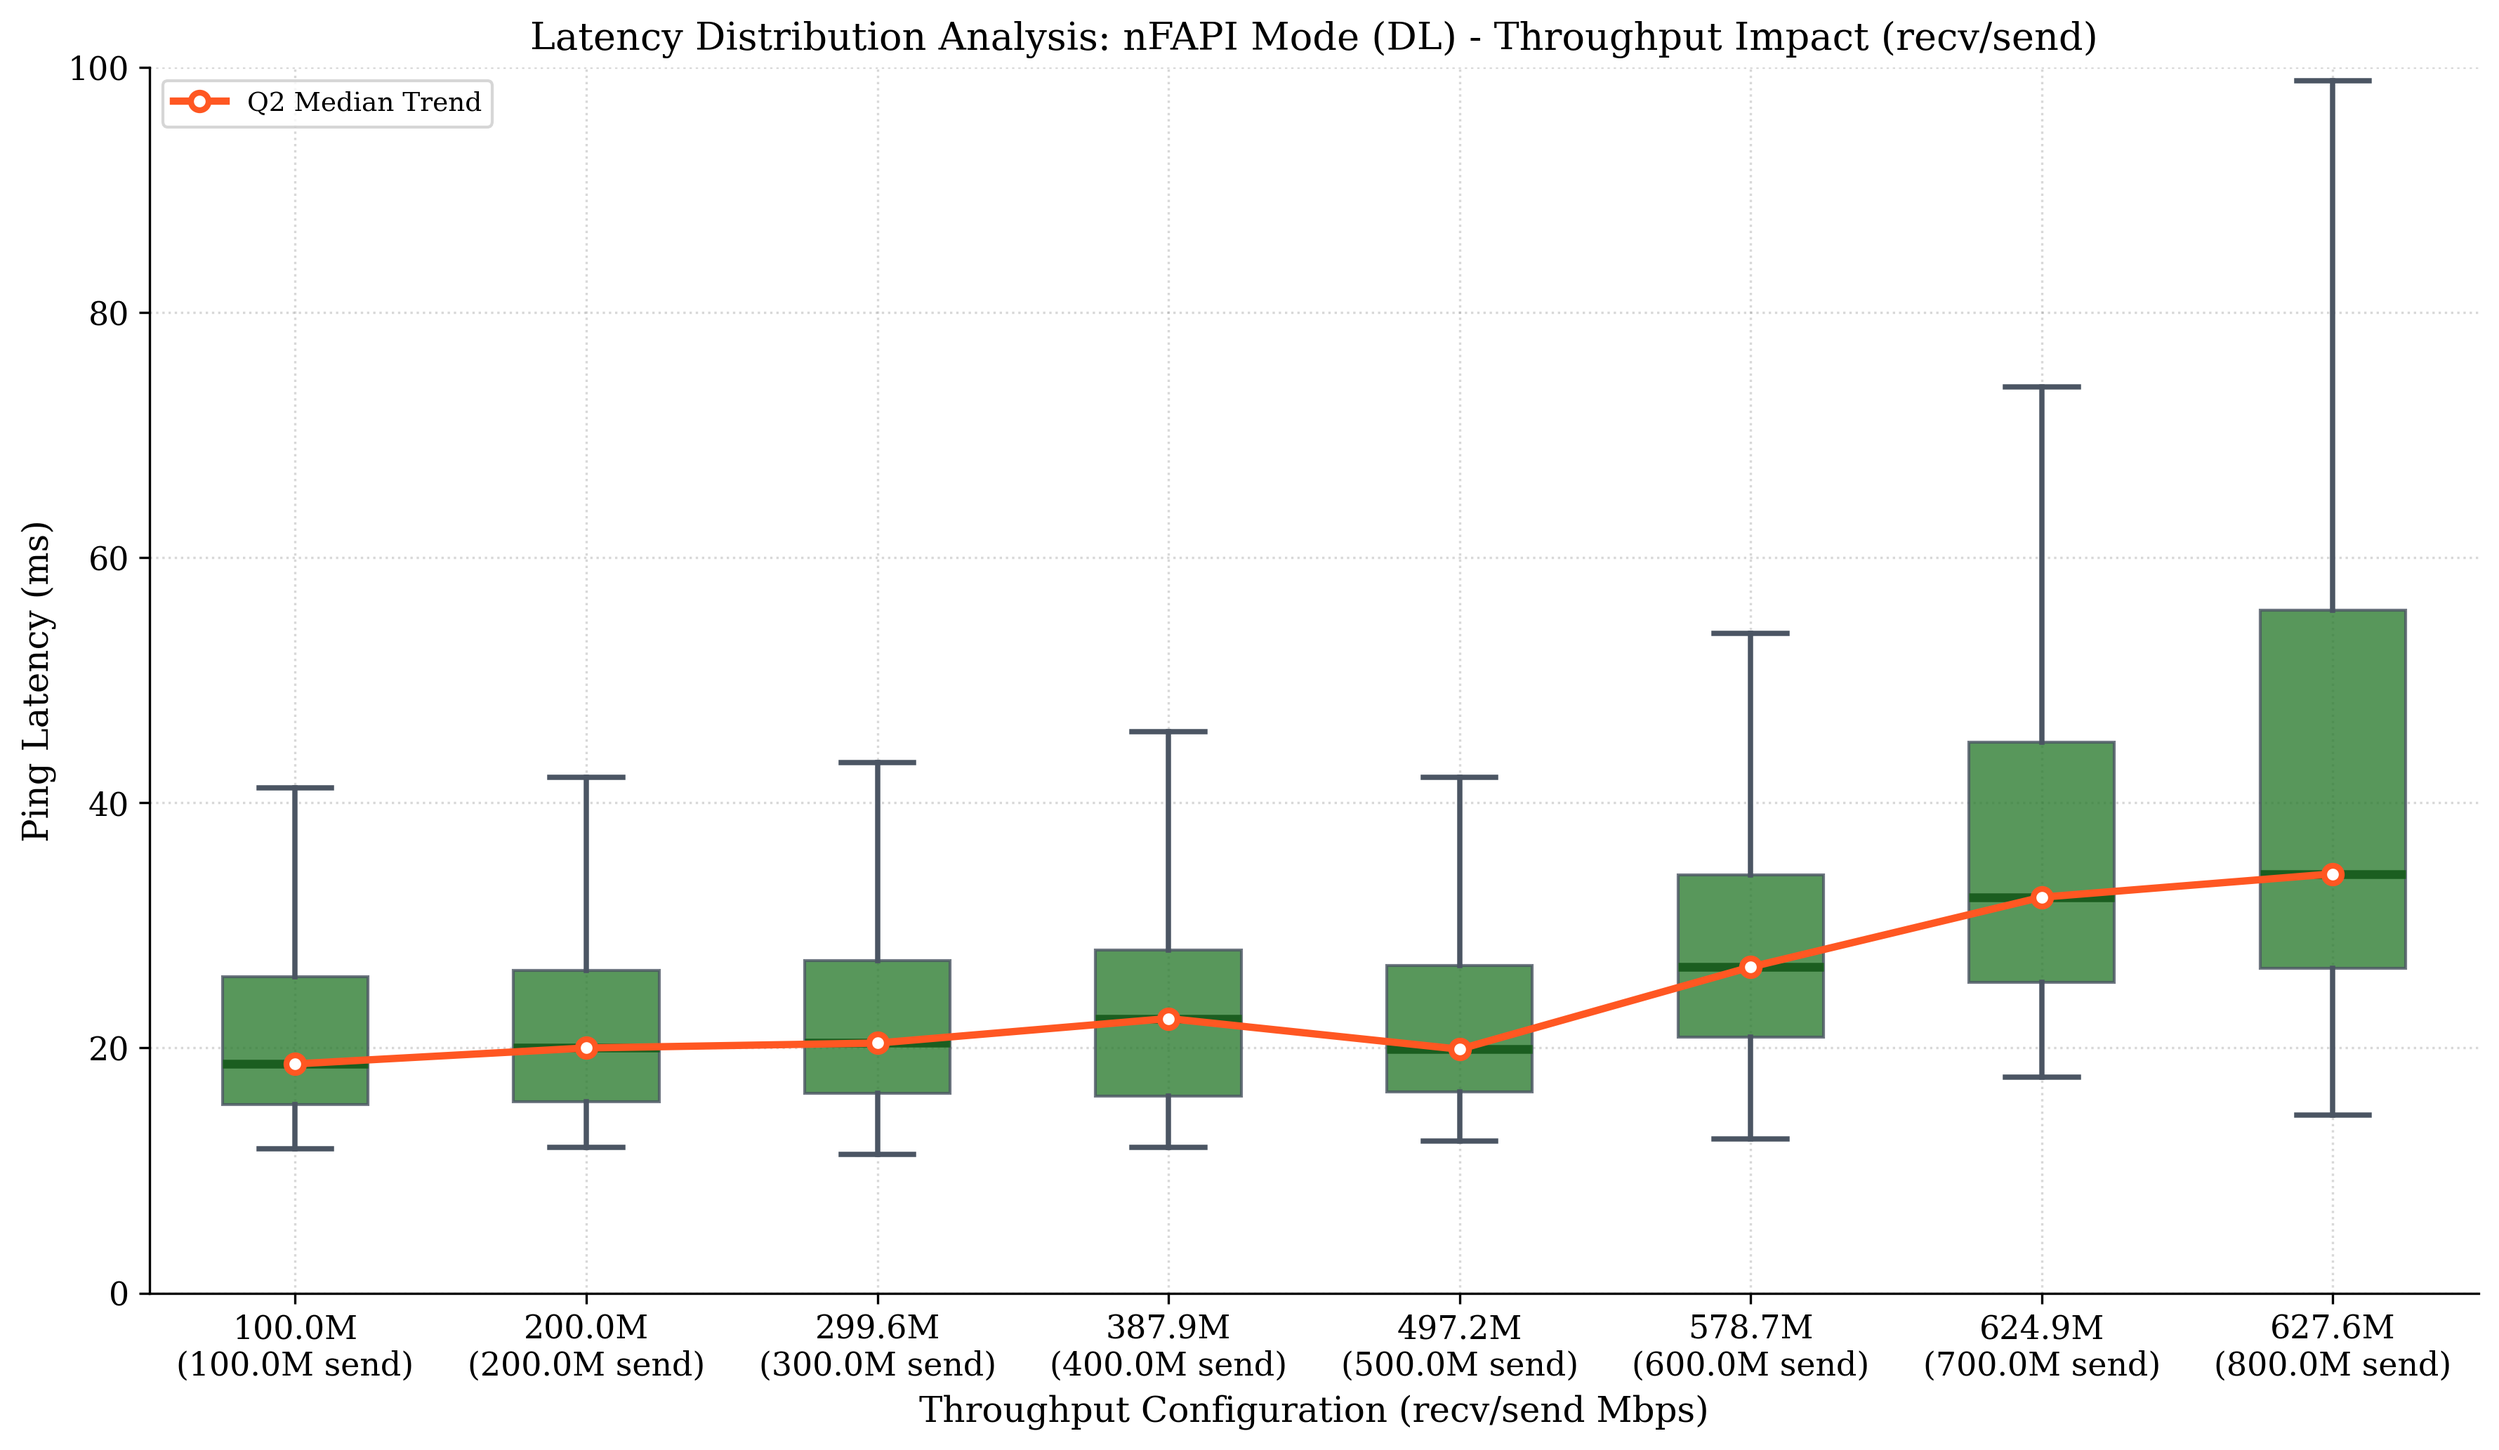
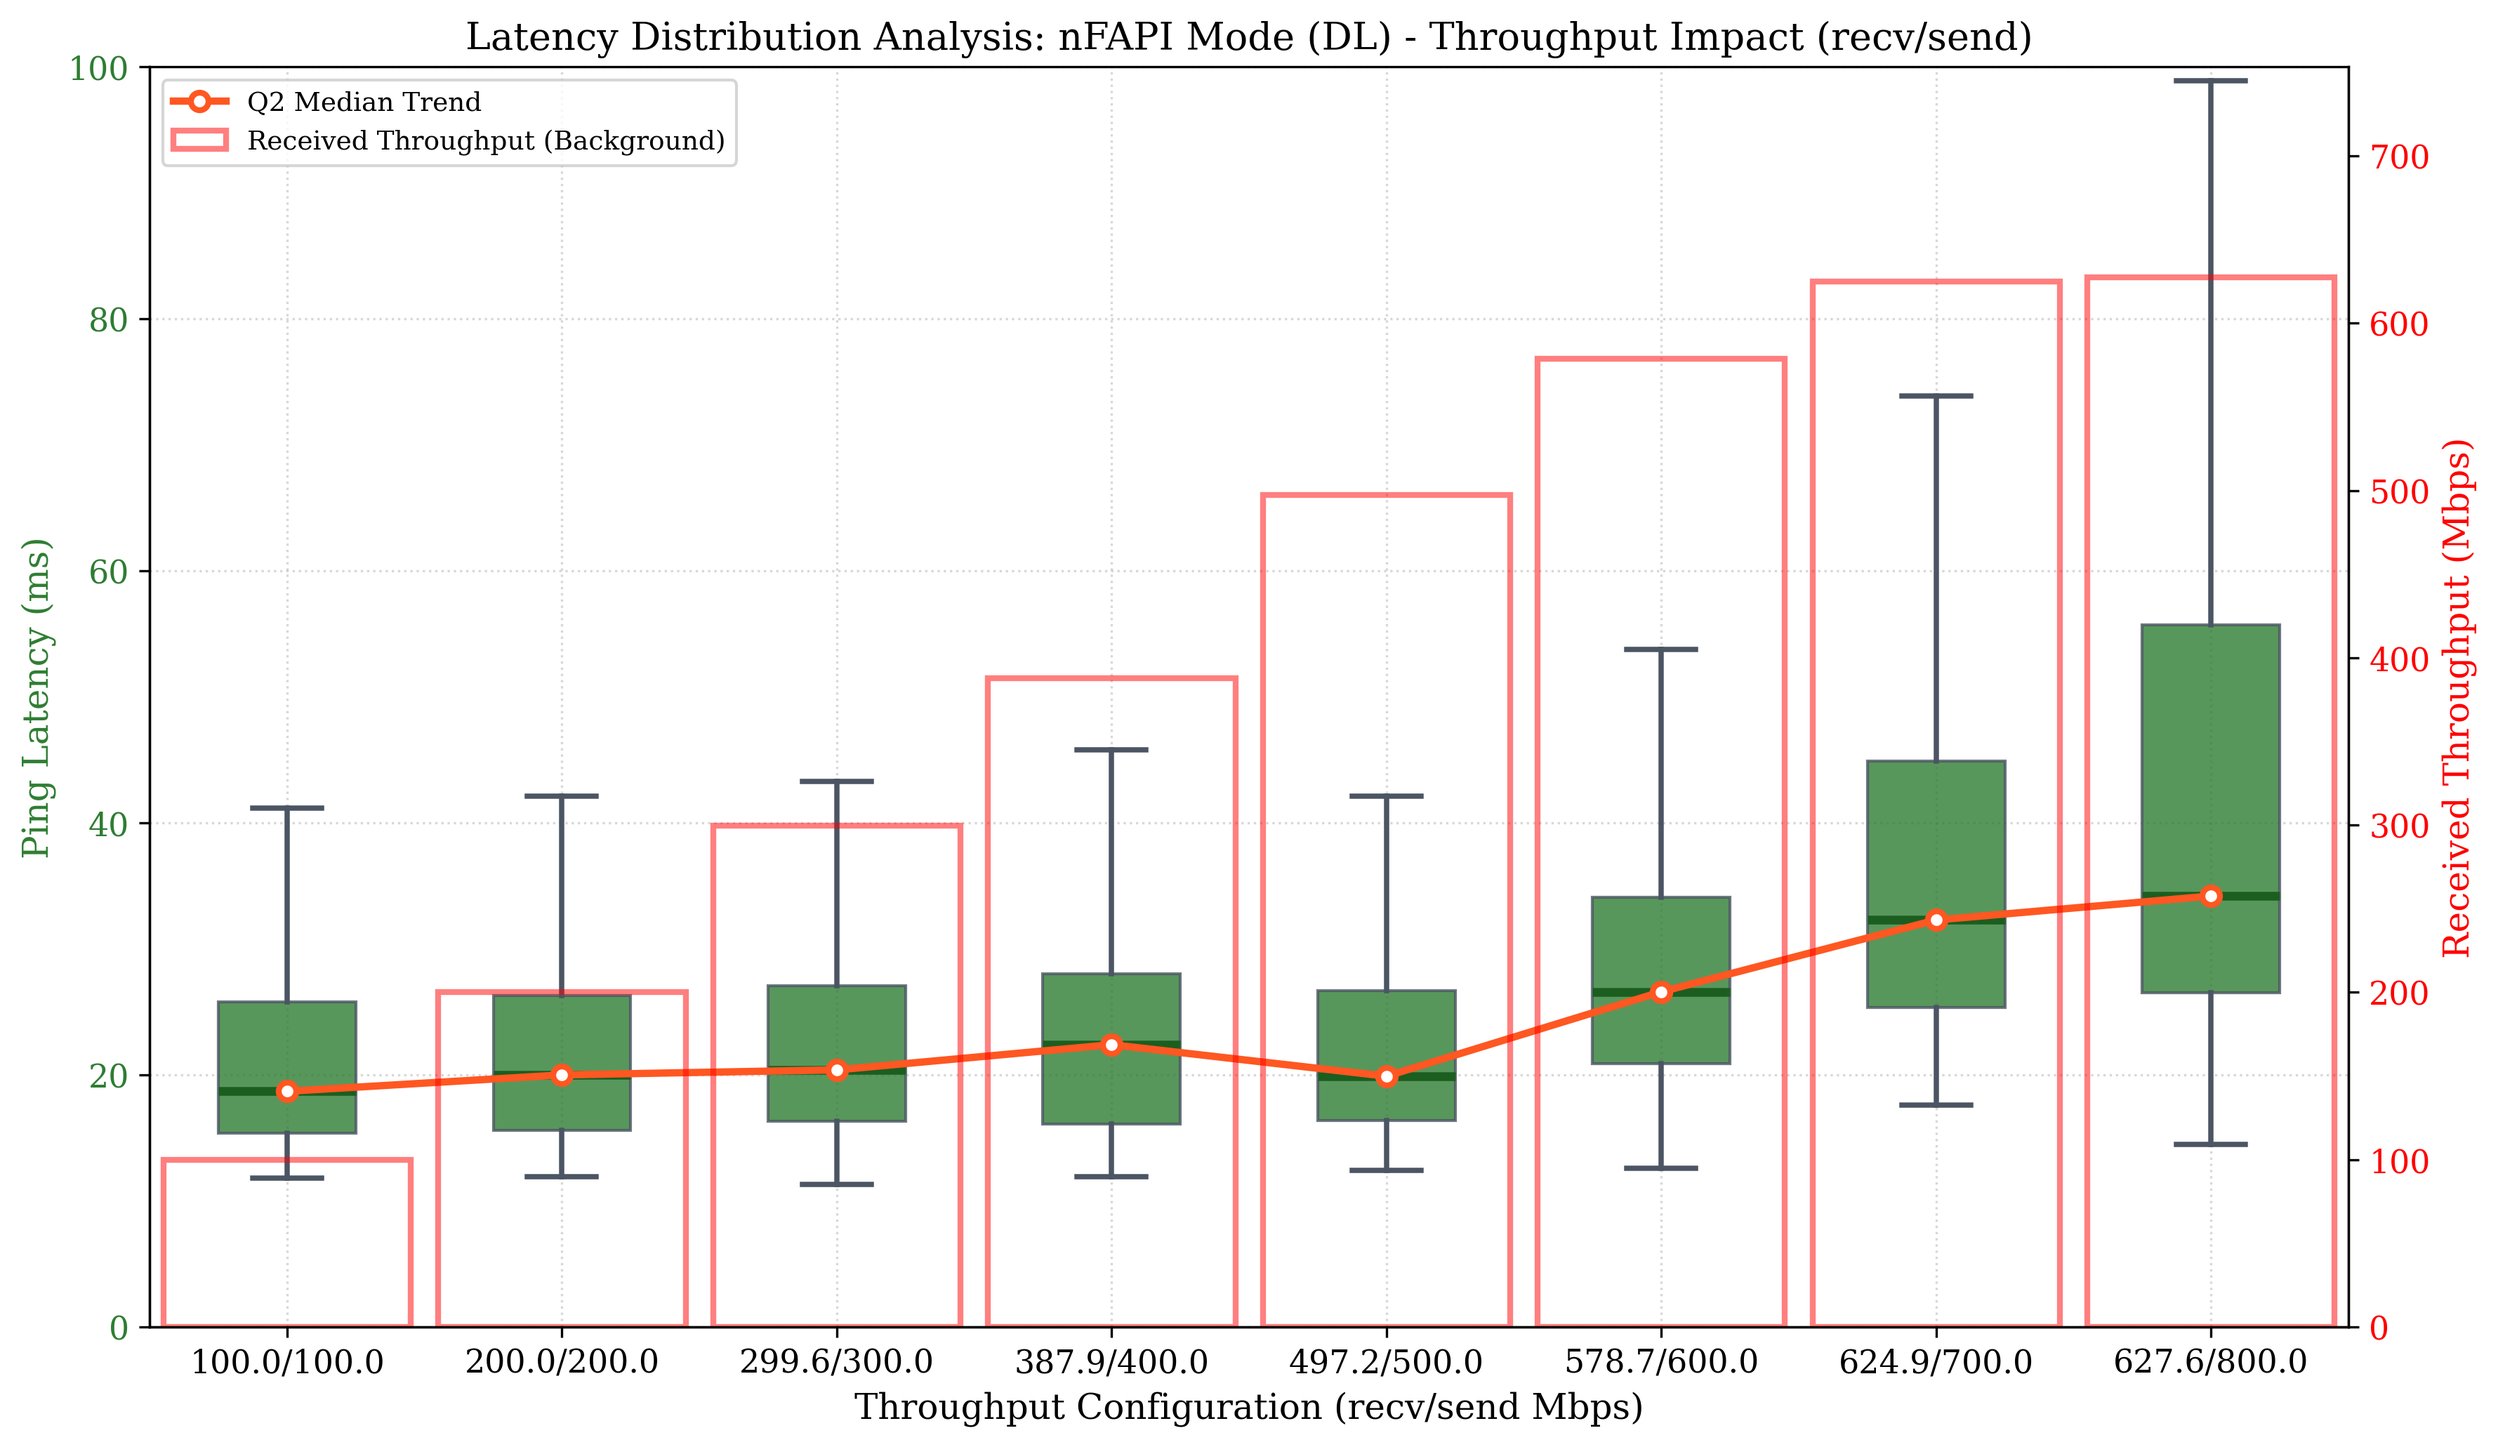
Enhance ping latency analysis visualization by adding background throughput bars and improving label formatting; update plot aesthetics for better clarity

diff --git a/scripts/analyze_ping_latency.py b/scripts/analyze_ping_latency.py
@@ -195,15 +195,18 @@ def create_quartile_analysis_plot(results_dict, output_dir, direction, mode, dat
     
     # Create enhanced labels with throughput information
     labels = []
+    recv_values = []  # Store received throughput values for background bars
     for bw in bandwidths:
         if bw in throughput_data:
             recv_mbps = throughput_data[bw]['ue_received']
             sent_mbps = throughput_data[bw]['cn_sent']
+            recv_values.append(recv_mbps)
             if recv_mbps > 0 and sent_mbps > 0:
-                labels.append(f"{recv_mbps:.1f}M\n({sent_mbps:.1f}M send)")
+                labels.append(f"{recv_mbps:.1f}/{sent_mbps:.1f}")
             else:
                 labels.append(f"{bw}M")
         else:
+            recv_values.append(bw)  # Fallback to bandwidth value
             labels.append(f"{bw}M")
     
     # Color scheme
@@ -211,35 +214,54 @@ def create_quartile_analysis_plot(results_dict, output_dir, direction, mode, dat
     median_color = '#1B5E20'
     whisker_color = '#4B5563'
     q2_trend_color = '#FF5722'
+    bar_edge_color = '#FF0000'  # Red outline for bars
     
     output_files = []
     
-    # 1. Box Plot with Q2 Trend Line
+    # 1. Box Plot with Q2 Trend Line and Background Throughput Bars
     fig, ax = plt.subplots(figsize=(12, 7))
     
+    # Create twin axis for throughput bars
+    ax2 = ax.twinx()
+    
+    # FIRST: Add background bars for received throughput (unfilled with red outline)
+    x_positions = range(1, len(bandwidths) + 1)
+    bars = ax2.bar(x_positions, recv_values, alpha=0.5, color='none', 
+                   width=0.9, edgecolor=bar_edge_color, linewidth=2.0,
+                   label='Received Throughput (Background)', zorder=0)
+    
+    # Set throughput axis scale with red color
+    ax2.set_ylabel('Received Throughput (Mbps)', color='#FF0000')
+    ax2.tick_params(axis='y', labelcolor='#FF0000')
+    ax2.set_ylim(0, max(recv_values) * 1.2 if recv_values else 100)
+    
+    # SECOND: Create box plot on primary axis (middle layer)
     box_data = [results_dict[bw]['raw_data'] for bw in bandwidths]
     
-    box_plot = plt.boxplot(box_data, tick_labels=labels, patch_artist=True, 
-                          showfliers=False, widths=0.5)
+    box_plot = ax.boxplot(box_data, tick_labels=labels, patch_artist=True, 
+                          showfliers=False, widths=0.5, zorder=2)
     
     for patch in box_plot['boxes']:
         patch.set_facecolor(box_color)
         patch.set_alpha(0.8)
         patch.set_edgecolor(whisker_color)
+        patch.set_zorder(2)
     
     for whisker in box_plot['whiskers']:
         whisker.set_color(whisker_color)
         whisker.set_linewidth(1.8)
+        whisker.set_zorder(2)
     for cap in box_plot['caps']:
         cap.set_color(whisker_color)
         cap.set_linewidth(1.8)
+        cap.set_zorder(2)
     for median in box_plot['medians']:
         median.set_color(median_color)
         median.set_linewidth(3.0)
+        median.set_zorder(2)
 
-    # Add Q2 trend line
+    # THIRD: Add Q2 trend line (top layer with highest z-order)
     q2_values = [results_dict[bw]['q2'] for bw in bandwidths]
-    x_positions = range(1, len(bandwidths) + 1)
     
     ax.plot(x_positions, q2_values, 'o-', 
             linewidth=2.5, markersize=6, 
@@ -248,16 +270,22 @@ def create_quartile_analysis_plot(results_dict, output_dir, direction, mode, dat
             markeredgewidth=2.0, 
             markeredgecolor=q2_trend_color,
             label='Q2 Median Trend', 
-            zorder=10)
+            zorder=3)
 
-    plt.xlabel('Throughput Configuration (recv/send Mbps)')
-    plt.ylabel('Ping Latency (ms)')
-    plt.title(f'Latency Distribution Analysis: {mode} Mode ({direction.upper()}) - Throughput Impact (recv/send)')
-    plt.grid(True, alpha=0.3, linestyle=':', color='gray')
+    # Set primary axis properties with green color
+    ax.set_xlabel('Throughput Configuration (recv/send Mbps)')
+    ax.set_ylabel('Ping Latency (ms)', color='#2E7D32')
+    ax.tick_params(axis='y', labelcolor='#2E7D32')
+    ax.set_title(f'Latency Distribution Analysis: {mode} Mode ({direction.upper()}) - Throughput Impact (recv/send)')
+    ax.grid(True, alpha=0.3, linestyle=':', color='gray', zorder=1)
     ax.spines['top'].set_visible(False)
-    ax.spines['right'].set_visible(False)
-    plt.ylim(0, 100)
-    plt.legend()
+    ax.set_ylim(0, 100)
+    
+    # Create combined legend
+    lines1, labels1 = ax.get_legend_handles_labels()
+    lines2, labels2 = ax2.get_legend_handles_labels()
+    ax.legend(lines1 + lines2, labels1 + labels2, loc='upper left')
+    
     plt.tight_layout()
     
     output_file1 = output_dir / f'ping_latency_boxplot_{direction}.png'
